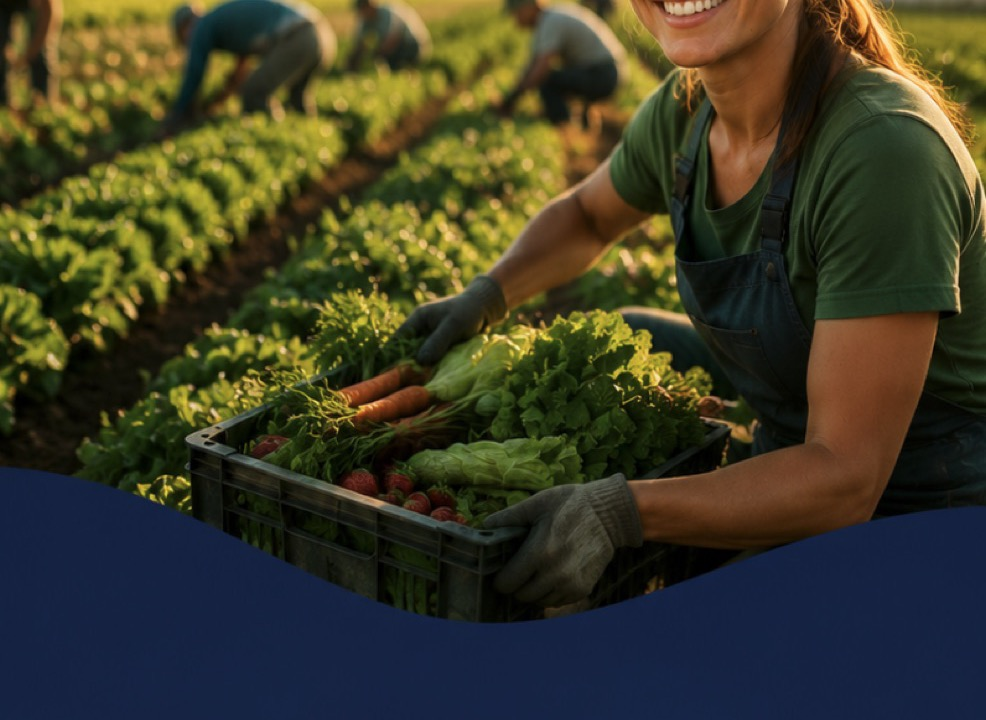
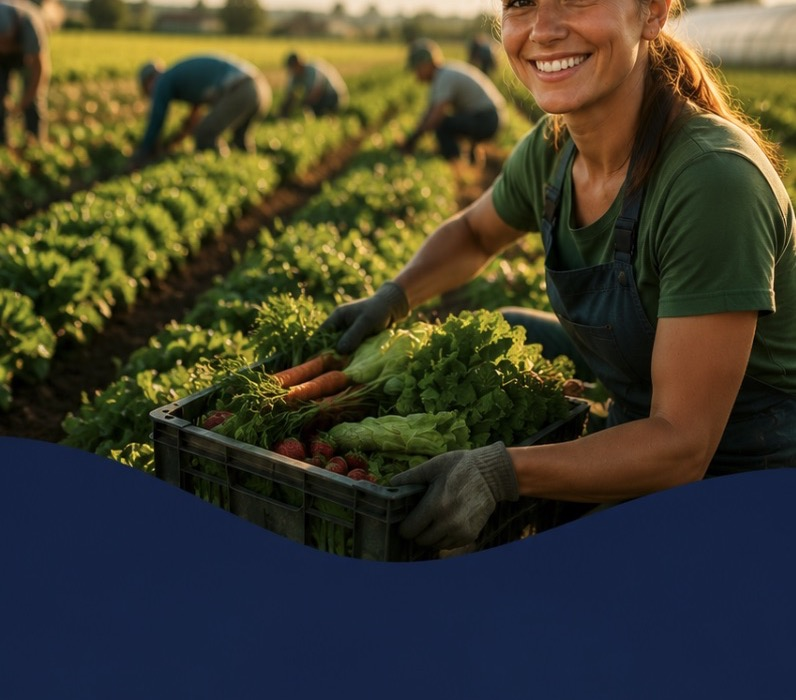
Hero photo: crop from top so face is visible, less blur
- Re-cropped image from top (was center, hiding face)
- New: 700x796 from top of original image (113KB)
- Reduced blur from 1.5px to 0.8px (sharper, more readable)
- background-position: center top
- Now shows: smiling worker face, workers in field, green crops

diff --git a/index.html b/index.html
@@ -641,7 +641,7 @@ footer a:hover{color:var(--navy)}
   section[aria-label="Гарантии"] .container > div{grid-template-columns:1fr!important;gap:10px!important}
   section[aria-label="Гарантии"] .container > div > div{padding:0!important;border:none!important}
   /* HERO mobile compactness */
-  .hero-bg-image{height:42%!important;background-position:center 55%!important;filter:blur(1.5px)!important}
+  .hero-bg-image{height:42%!important;background-position:center top!important;filter:blur(0.8px)!important}
   .hero-wave{top:38%!important;height:7%!important}
   .hero-inner{padding:170px 20px 36px!important}
   .hero h1{font-size:30px!important;line-height:1.08!important}
@@ -800,7 +800,7 @@ footer a:hover{color:var(--navy)}
 <section class="hero" id="top" aria-label="Описание вакансии" style="background:var(--navy);padding:0;min-height:auto;position:relative;overflow:hidden">
 
   <!-- Фоновое изображение — обрезано сверху, лёгкий блюр -->
-  <div class="hero-bg-image" style="position:absolute;top:0;left:0;right:0;height:48%;background-image:url('assets/hero-strawberry.jpg');background-size:cover;background-position:center 55%;filter:blur(1.5px);transform:scale(1.05);z-index:0"></div>
+  <div class="hero-bg-image" style="position:absolute;top:0;left:0;right:0;height:48%;background-image:url('assets/hero-strawberry.jpg');background-size:cover;background-position:center top;filter:blur(0.8px);transform:scale(1.03);z-index:0"></div>
 
   <!-- Тёмный градиент для читаемости текста на фото -->
   <div style="position:absolute;top:0;left:0;right:0;height:48%;background:linear-gradient(180deg,rgba(26,43,82,.25) 0%,rgba(26,43,82,.5) 60%,rgba(26,43,82,.95) 100%);z-index:1"></div>